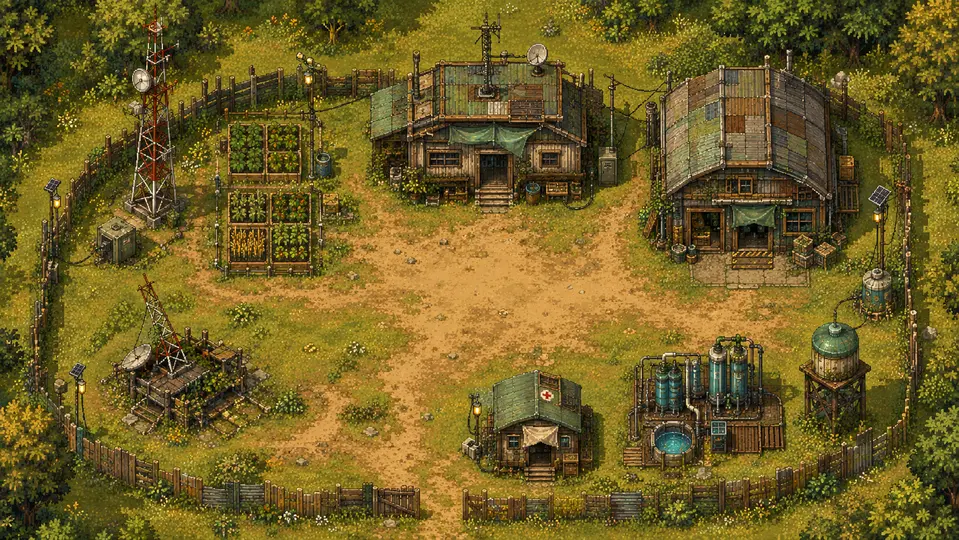
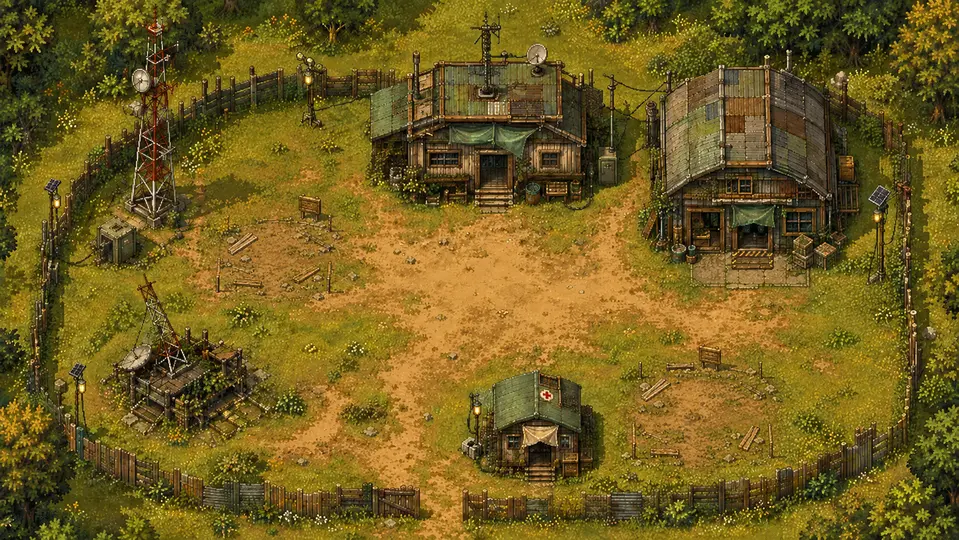
Add locked expansion plots to base

diff --git a/app.js b/app.js
@@ -116,9 +116,13 @@ class ShelterScene extends Phaser.Scene {
     this.createBuildingZone('command', 468, 175, 185, 120, '指挥室', '点击打开收件箱');
     this.createBuildingZone('radio', 132, 142, 118, 246, '无线电站', '接收外部求救');
     this.createBuildingZone('warehouse', 720, 172, 190, 160, '仓库', '储存补给');
-    this.createBuildingZone('water', 708, 390, 165, 132, '净水站', '住民饮水');
     this.createBuildingZone('clinic', 535, 405, 145, 110, '医疗站', '处理伤员');
     this.createBuildingZone('relay', 142, 350, 120, 122, '网络中继器', '保护通讯链路');
+    this.createExpansionZone('garden', 245, 246, 168, 124, '菜园用地', '未开发 · 需要菜园蓝图与种子');
+    this.createExpansionZone('water', 724, 385, 170, 134, '净水设施用地', '未开发 · 需要净水器与滤芯');
+    this.createExpansionZone('west-yard', 285, 365, 135, 146, '西侧扩建地块', '预留 · 等待后续任务解锁');
+    this.createExpansionZone('east-yard', 842, 360, 118, 162, '东侧扩建地块', '预留 · 等待后续任务解锁');
+    this.createExpansionZone('south-yard', 445, 483, 212, 74, '南门外扩区', '预留 · 可扩展防线或工坊');
     this.createResidents();
 
     this.nightOverlay = this.add.rectangle(480, 270, 960, 540, 0x071021, 0).setDepth(20);
@@ -148,6 +152,38 @@ class ShelterScene extends Phaser.Scene {
     });
 
     this.buildings.set(id, { frame, marker, label, description, status: null });
+  }
+
+  createExpansionZone(id, x, y, width, height, label, description) {
+    const frame = this.add.rectangle(x, y, width, height, 0x8acb81, 0).setStrokeStyle(2, 0x8acb81, 0).setDepth(12);
+    const marker = this.add.circle(x + width / 2 - 13, y - height / 2 + 13, 6, 0x8acb81, 0).setDepth(13);
+    const zone = this.add.zone(x, y, width, height).setInteractive({ useHandCursor: true }).setDepth(14);
+
+    zone.on('pointerover', () => {
+      frame.setStrokeStyle(2, 0x8acb81, .88);
+      marker.setFillStyle(0x8acb81).setAlpha(1);
+      const status = this.buildings.get(id)?.status;
+      elements.selection.textContent = status === 'locked'
+        ? `${label} · ${description}`
+        : `${label} · 蓝图已到位，可部署设施`;
+    });
+    zone.on('pointerout', () => {
+      if (this.buildings.get(id)?.status === 'locked') {
+        frame.setStrokeStyle(2, 0x8acb81, 0);
+        marker.setAlpha(0);
+      }
+    });
+    zone.on('pointerdown', () => {
+      const status = this.buildings.get(id)?.status;
+      if (status === 'locked') {
+        elements.selection.textContent = `${label} · 未解锁`;
+        elements.impact.textContent = '这块地已预留。后续正确处置邮件可带来蓝图、物资或施工权限。';
+      } else {
+        elements.selection.textContent = `${label} · 蓝图已到位，可部署设施`;
+      }
+    });
+
+    this.buildings.set(id, { frame, marker, label, description, status: 'locked', kind: 'expansion' });
   }
 
   createResidents() {
@@ -184,6 +220,15 @@ class ShelterScene extends Phaser.Scene {
       building.marker.setFillStyle(0xa7d97d).setAlpha(1);
       elements.selection.textContent = `${building.label} · 已升级域名过滤规则`;
     }
+    if (status === 'available') {
+      building.frame.setStrokeStyle(3, 0x8acb81, 1);
+      building.marker.setFillStyle(0x8acb81).setAlpha(1);
+      elements.selection.textContent = `${building.label} · 蓝图已到位，可部署设施`;
+    }
+  }
+
+  unlockExpansion(id) {
+    this.setBuildingState(id, 'available');
   }
 
   setNight(isNight) {

diff --git a/README.md b/README.md
@@ -6,12 +6,13 @@
 
 项目通过 Phaser v3.90.0 CDN 运行，不需要安装 Node.js。
 
-- 点击「指挥室」可打开收件箱；点击其他建筑可查看它们的状态。
+- 开局只拥有指挥、通信、仓储、医疗与中继等基础设施；点击「指挥室」可打开收件箱。
+- 菜园、净水设施和三处外围地块都以透明点击区预留在地图上，必须通过后续正确邮件判断取得蓝图、物资或施工权限后才能建设。
 - 可切换白天/夜晚；夜晚会强化基地的危险感。
 - 接受钓鱼邮件会让网络中继器在地图中变为受损。
 - 举报成功会升级无线电站并获得情报。
 
-基地现在使用 `assets/base-day.webp` 作为暖色俯视日间底图。Phaser 在建筑对应位置放置透明交互区、昼夜遮罩、光照层和受损/升级标记；这让美术与玩法逻辑可以独立迭代。
+基地现在使用 `assets/base-day.webp` 作为暖色俯视日间底图。Phaser 在建筑与预留地块对应位置放置透明交互区、昼夜遮罩、光照层和受损/升级标记；这让美术与玩法逻辑可以独立迭代。后续邮件只需调用 `unlockExpansion('garden')` 或 `unlockExpansion('water')`，即可把对应地块标为可建设。
 
 下一步可继续把住民与状态标记替换为 16×16 像素 sprite，并加入独立的夜晚底图与 Tiled 地图数据。
 
